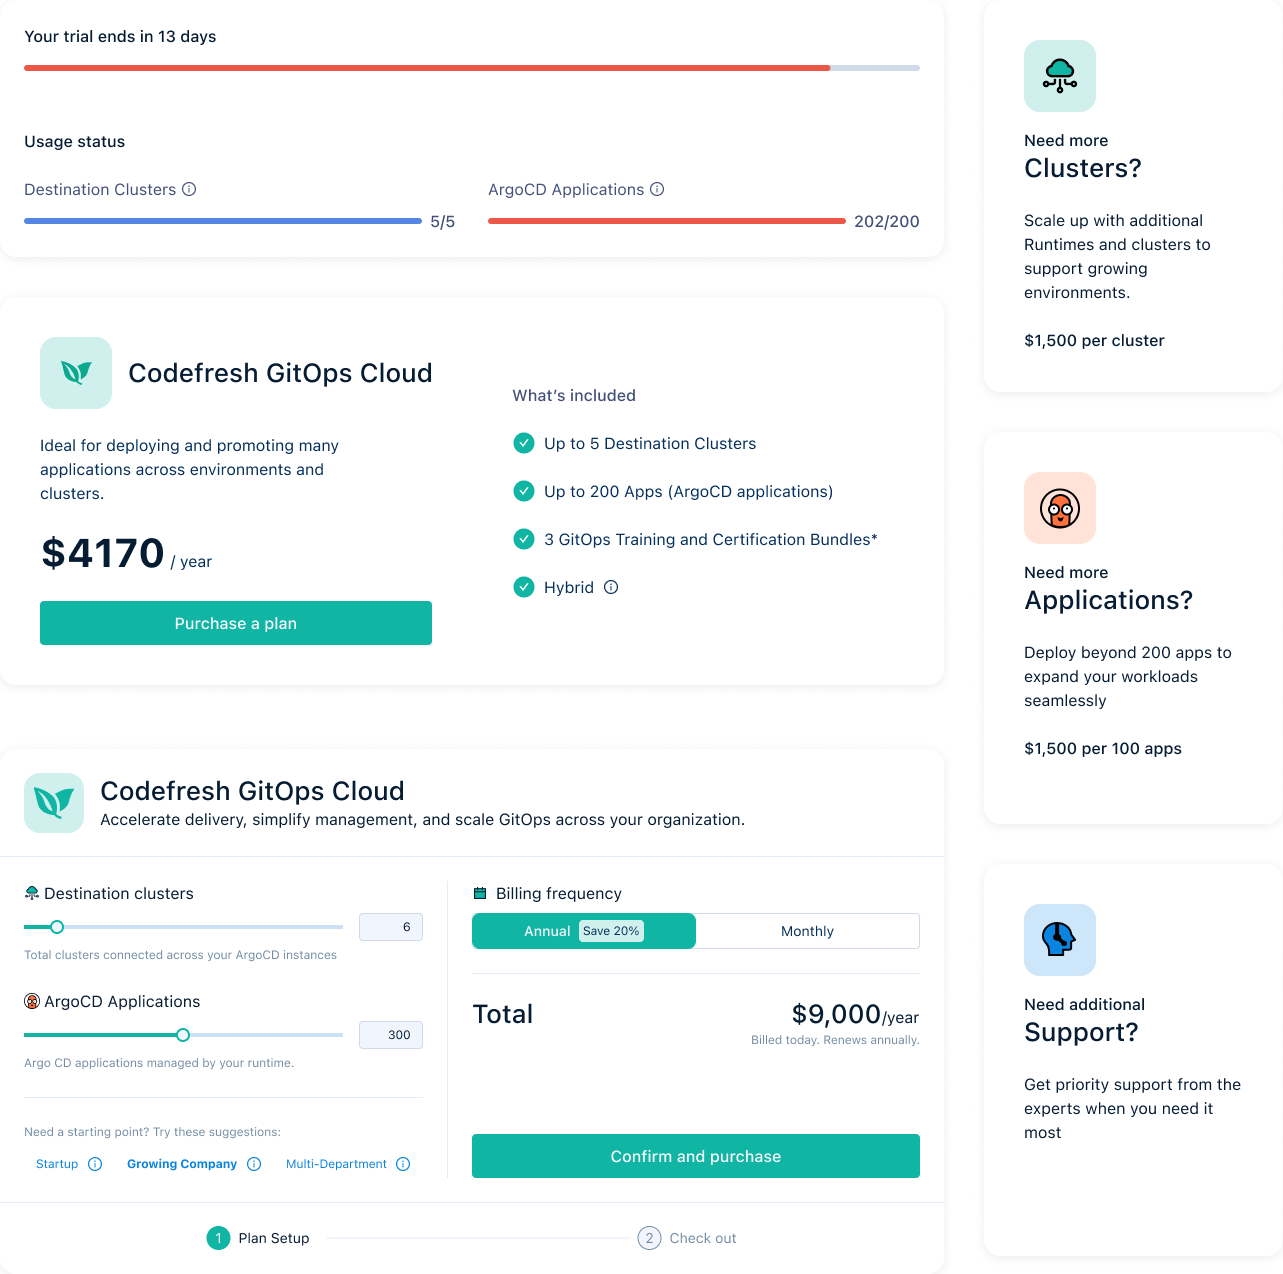
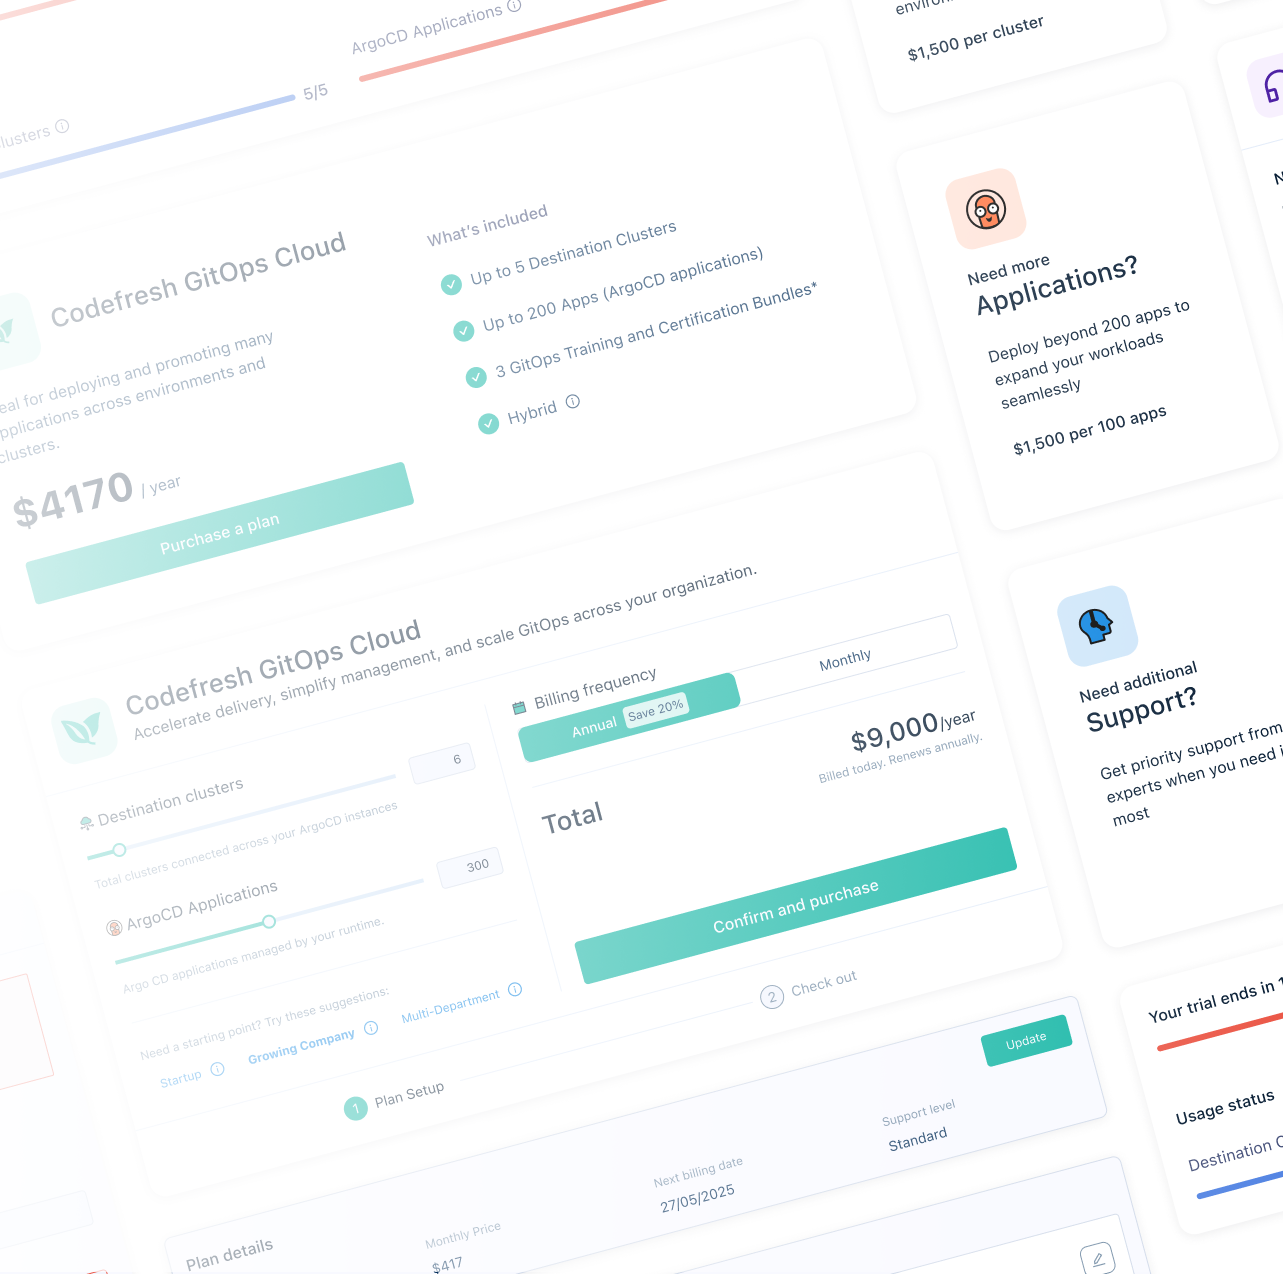
Update hero image and fix positioning (flush right, fade left)

diff --git a/pricing-pages/index.html b/pricing-pages/index.html
@@ -49,10 +49,12 @@
   }
   .hero-bg {
     position: absolute;
-    left: 41.5%;
-    top: 2.7%;
-    width: 57%;
+    right: 0;
+    top: 0;
+    width: 62%;
     display: block;
+    -webkit-mask-image: linear-gradient(to right, transparent 0%, black 22%);
+    mask-image: linear-gradient(to right, transparent 0%, black 22%);
   }
   .hero-text {
     position: relative;
